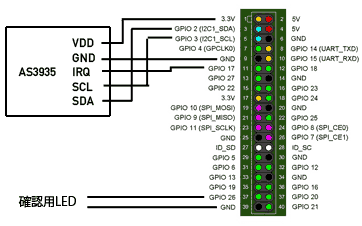
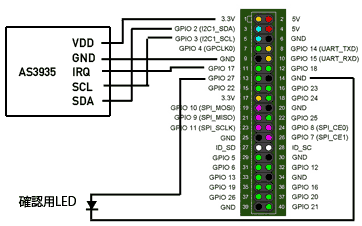
reset config support

Changed region(s): [[0.2127, 0.3407, 1.0, 0.9912], [0.6381, 0.8053, 0.6685, 0.8363], [0.6381, 0.7124, 0.6685, 0.7434]]

diff --git a/htdocs/index.html b/htdocs/index.html
@@ -90,7 +90,7 @@
 	<section id="about-section" class="mdl-components__page mdl-grid">
 	  <div class="mdl-cell mdl-cell--12-col">
 	    <div class="docs-text-styling component-title">
-              <p>Lighting sensor 0.1</p>
+              <p>Lighting sensor 0.1 BETA</p>
               <p>Serial : <span id="serial"></span></p>
 	      <p>Weathernews Inc.</p>
 	    </div>

diff --git a/lightning/rec.py b/lightning/rec.py
@@ -1,5 +1,8 @@
 #!/usr/bin/python
-# -*- coding: utf-8 -*- 
+# -*- coding: utf-8 -*-
+# http://www.ishikawa-lab.com/RasPi_lightning.html
+# 問い合わせ先：株式会社ウェザニューズ
+# http://weathernews.jp/c/contact.html
 
 from RPi_AS3935 import RPi_AS3935
 import RPi.GPIO as GPIO
@@ -8,15 +11,19 @@ import csv
 from datetime import datetime
 import requests
 import sys
+import os
 import os.path
 mypath = os.path.dirname(sys.argv[0])
 if mypath == "":
         mypath = "."
 else:
         sys.path.append(mypath)
+from id import serial_number        
 
-LED = 25
+RST = 21        # リセット端子
+LED = 27
 GPIO.setmode(GPIO.BCM)
+GPIO.setup(RST, GPIO.IN, pull_up_down=GPIO.PUD_DOWN)
 GPIO.setup(LED, GPIO.OUT)
 GPIO.output(LED, True)
 
@@ -30,34 +37,32 @@ sensor.set_noise_floor(0)
 #(5) 32pF チューニングの結果をここで指定する
 sensor.calibrate(tun_cap=0x05)
 
-filename = '/root/lightning/' + datetime.now().strftime("%Y-%m-%d") + '.lightning.txt'
+if not os.path.exists(mypath + '/spool'):
+	os.mkdir(mypath + '/spool')
 
 def handle_interrupt(channel):
 	time.sleep(0.003)
 	global sensor
 	reason = sensor.get_interrupt()
 	now = datetime.now().strftime("%Y/%m/%d %H:%M:%S")
+        filename = mypath + '/spool/' + datetime.now().strftime("%Y-%m-%d") + '.lightning.txt'
 	outputfile = open(filename , "a" )
 	writer = csv.writer(outputfile)
 	if reason == 0x01:
 		sensor.raise_noise_floor()
 		buffer = [now, "Noise level too high"]
-		print (buffer)
 		writer.writerow(buffer)
 	elif reason == 0x04:
 		sensor.set_mask_disturber(True)
 		buffer = [now, "Disturber detected"]
-		print (buffer)
 		writer.writerow(buffer)
 	elif reason == 0x08:
                	GPIO.output(LED, True)
 		distance = sensor.get_distance()
 		energy = sensor.get_energy()
 		buffer = [now, "lightning!" ,  str(distance)  , str(energy)]
-		print (buffer)
 		writer.writerow(buffer)
-                url = "http://labs.weathernews.jp/hack/lightning/ingest.cgi?id=ltng1001&distance=" + str(distance)  + "&energy=" + str(energy)
-                print (url)
+                url = "http://labs.weathernews.jp/hack/lightning/ingest.cgi?id=" + serial_number + "&distance=" + str(distance)  + "&energy=" + str(energy)
                 if os.path.exists(mypath + "/proxy.py"):
                         from proxy import proxies
                         resp = requests.get(url,proxies=proxies)
@@ -65,7 +70,7 @@ def handle_interrupt(channel):
                         resp = requests.get(url)
 	outputfile.close()
 
-#ここから始まり
+
 IRQ = 17
 
 GPIO.setup(IRQ, GPIO.IN)
@@ -77,10 +82,12 @@ writer = csv.writer(outputfile)
 distance = sensor.get_distance()
 energy = sensor.get_energy()
 buffer = [now, "Waiting for lightning",  str(distance)  , str(energy) ]
-print (buffer)
 writer.writerow(buffer)
 outputfile.close()
 
 while True:
 	time.sleep(1.0)
 	GPIO.output(LED, False)
+        if GPIO.input(RST):
+                os.system(mypath + "../piset/config/set_config.sh");
+                os.system("reboot");
